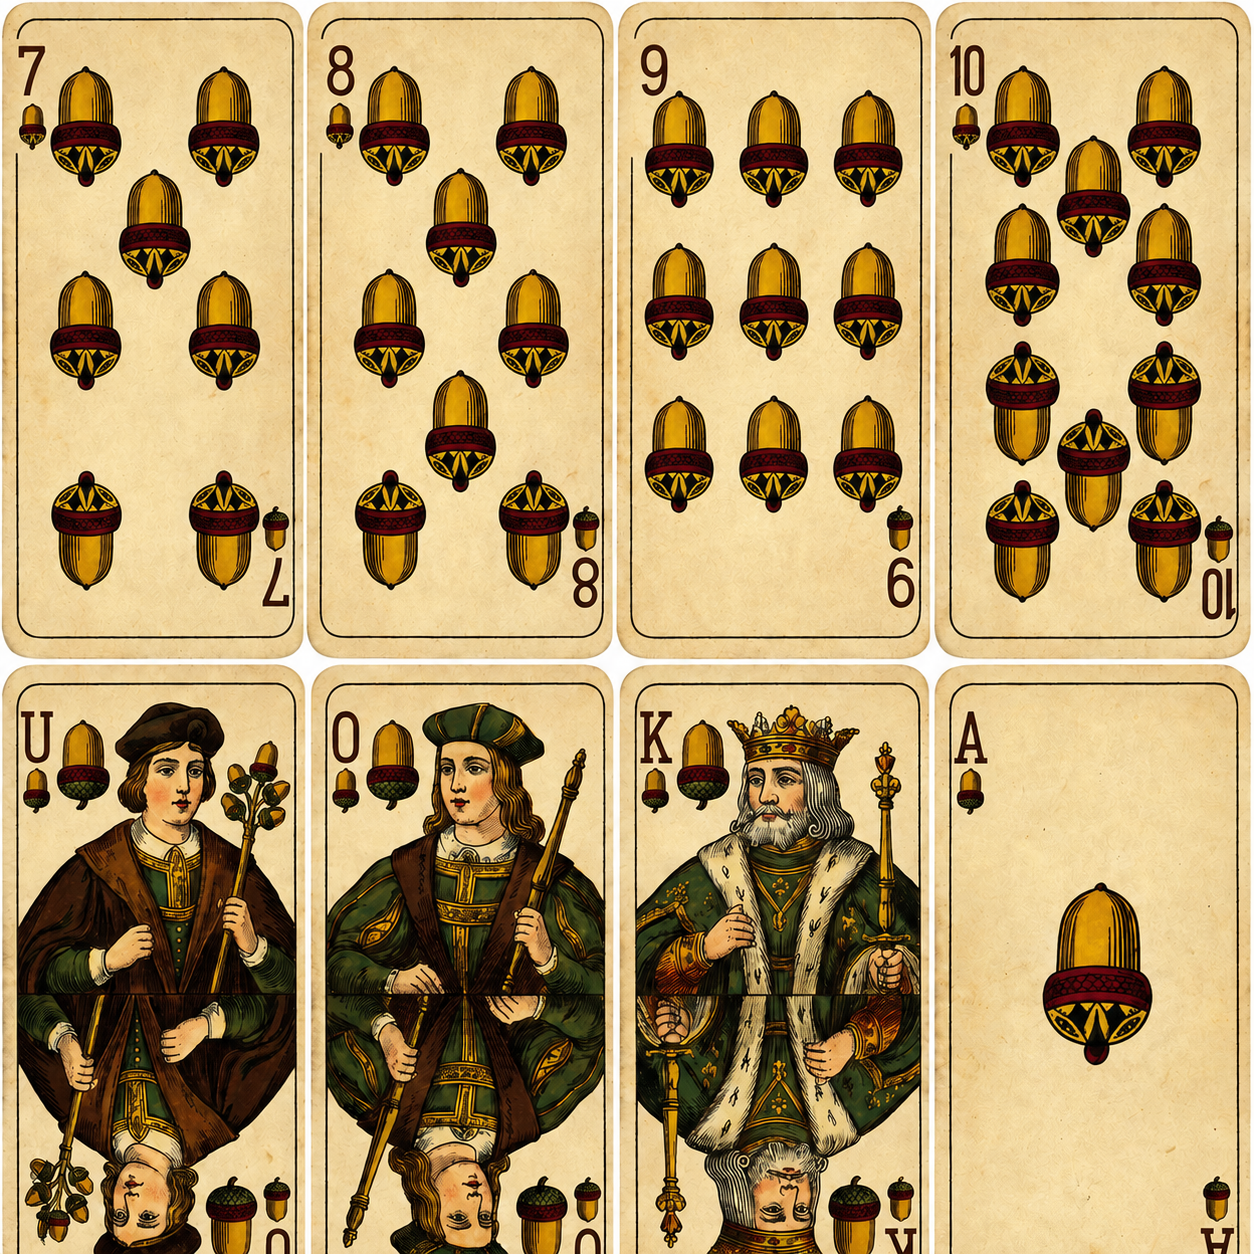
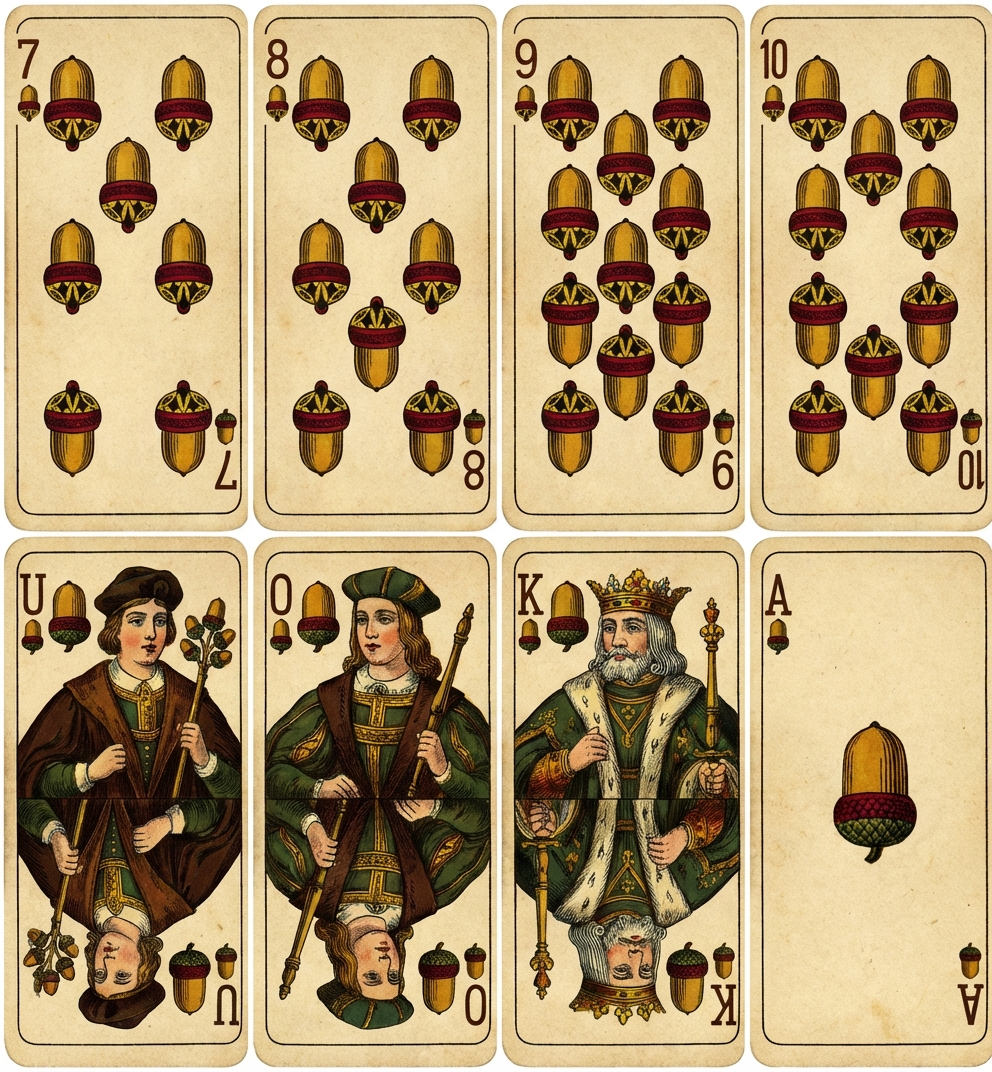
Revert "Optimize card art for web"
This reverts commit 7f644f0415ba277bfcf923c80e44f1505b845dcc.

diff --git a/src/styles.css b/src/styles.css
@@ -478,7 +478,7 @@ h1 {
   margin-right: -18px;
   border: 2px solid rgb(255 255 255 / 0.9);
   border-radius: 6px;
-  background-image: url("../card_back.webp");
+  background-image: url("../card_back.png");
   background-size: cover;
   background-position: center;
   box-shadow: